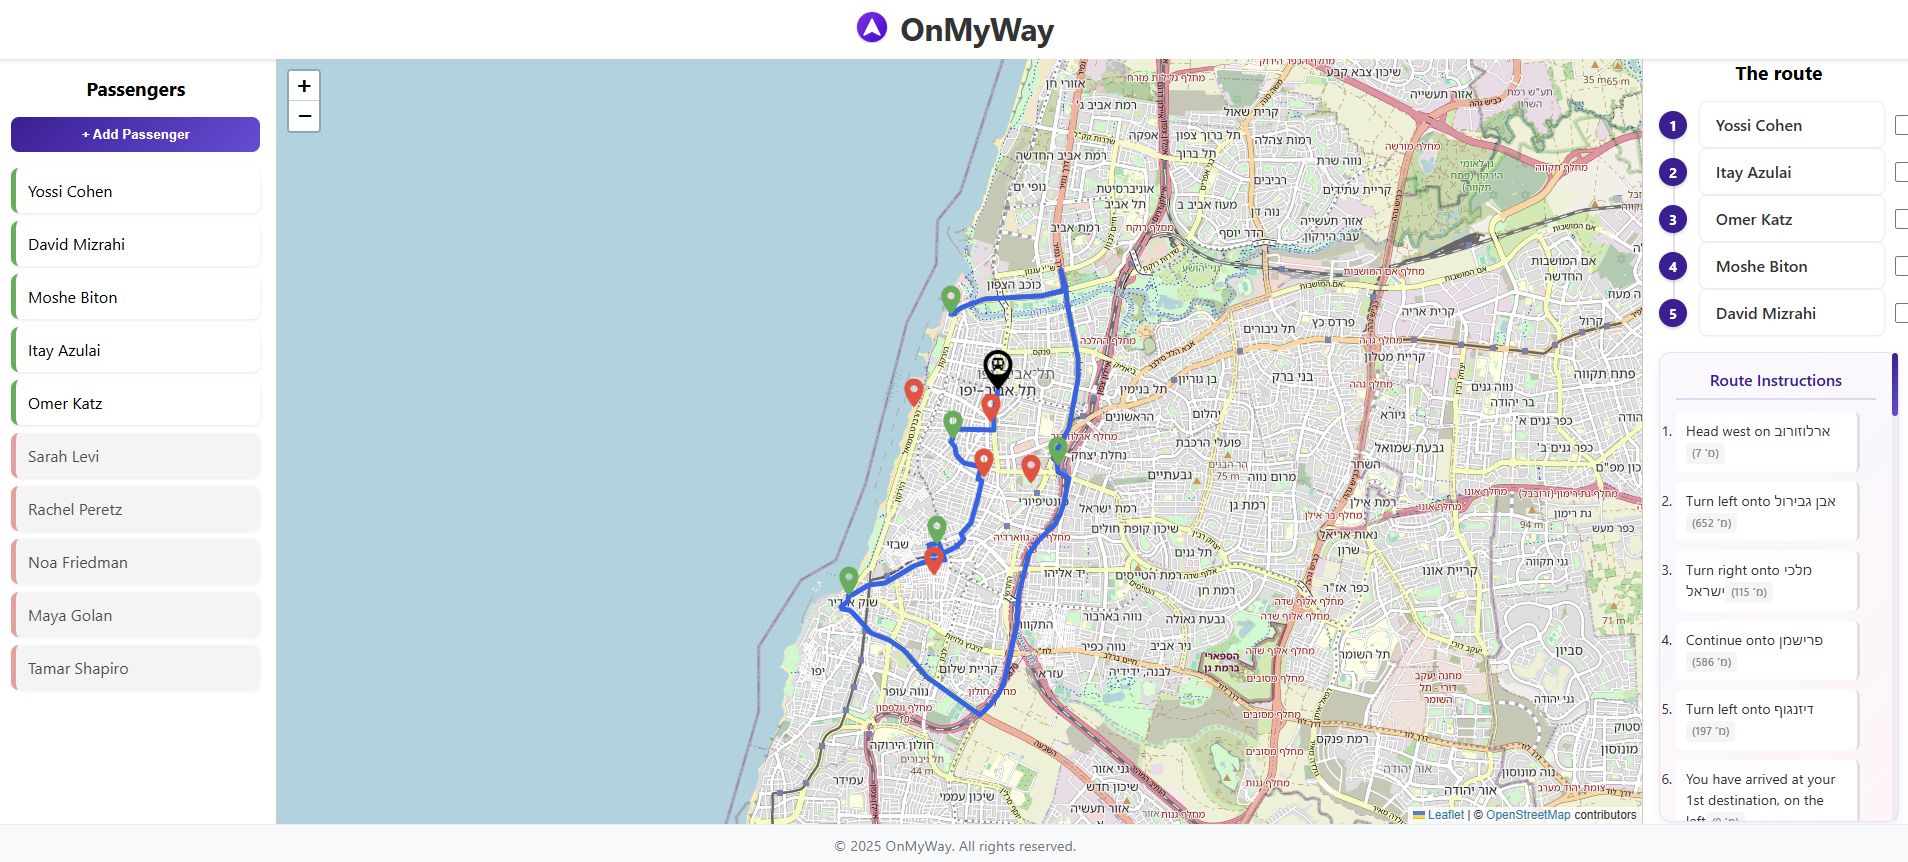
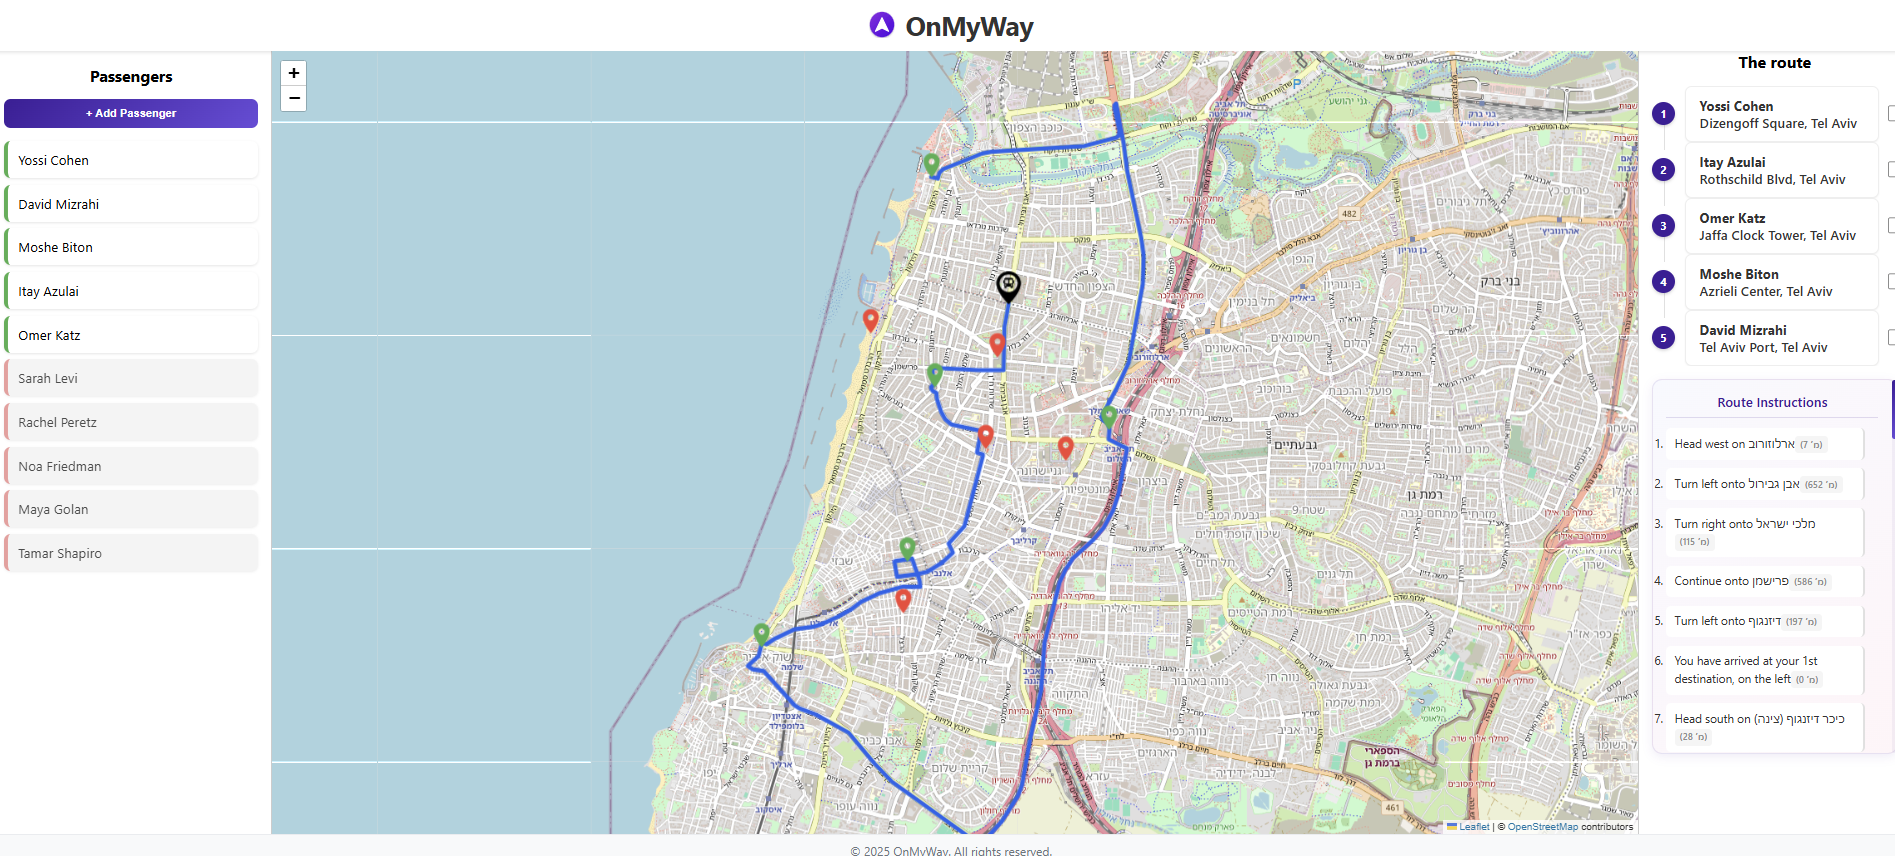
update README

diff --git a/Frontend/src/components/Map.css b/Frontend/src/components/Map.css
@@ -186,6 +186,9 @@
     padding: 0;
     margin: 0;
     position: relative;
+    max-height: 350px;
+    overflow-y: auto;
+    padding-right: 0.5rem;
 }
 
 /* Container for the step */
@@ -259,21 +262,10 @@
     border: 1px solid #eee;
     border-radius: 8px;
     flex-grow: 1;
+    font-weight: 500;
     color: #333;
     box-shadow: 0 1px 2px rgba(0, 0, 0, 0.05);
     transition: transform 0.2s, box-shadow 0.2s;
-    display: flex;
-    flex-direction: column;
-}
-
-.step-point-name {
-    font-weight: 600;
-    margin-bottom: 2px;
-}
-
-.step-point-address {
-    font-size: 0.8rem;
-    color: #666;
 }
 
 .Route li.route-step:hover .step-name {
@@ -300,12 +292,31 @@
     display: none !important;
 }
 
+/* Custom Scrollbar for Route Steps */
+.Route ol.route-steps::-webkit-scrollbar {
+    width: 6px;
+}
+
+.Route ol.route-steps::-webkit-scrollbar-track {
+    background: rgba(62, 29, 153, 0.05);
+    border-radius: 10px;
+}
+
+.Route ol.route-steps::-webkit-scrollbar-thumb {
+    background: linear-gradient(135deg, #3e1d99 0%, #6a4cdb 100%);
+    border-radius: 10px;
+}
+
+.Route ol.route-steps::-webkit-scrollbar-thumb:hover {
+    background: linear-gradient(135deg, #2e0d89 0%, #5a3ccb 100%);
+}
+
 .RouteInstructions {
     margin: 16px 1rem 1rem 1rem;
     padding: 16px;
     background: linear-gradient(135deg, #f8f9ff 0%, #fff5f8 100%);
     border-radius: 12px;
-    max-height: 470px;
+    max-height: 450px;
     overflow-y: auto;
     font-size: 14px;
     box-shadow: 0 4px 12px rgba(62, 29, 153, 0.08);

diff --git a/README.md b/README.md
@@ -23,6 +23,17 @@ The main goal of this system is to provide a **ride escort** with a reliable too
 Parents only confirm participation, while the escort sees an aggregated and ordered route.
 
 ---
+## 🧩 System Architecture (High Level)
+
+The system follows a classic client-server architecture:
+- React frontend communicates with a RESTful Express backend
+- Backend handles business logic, database access, and geocoding
+- MySQL stores persistent passenger, address, and confirmation data
+This separation allows clear responsibility boundaries and easy future scaling.
+
+
+
+---
 
 ## 👥 Authors
 
@@ -54,6 +65,9 @@ Developed collaboratively by:
 
 ## 🖼 Application Screens
 
+### Attendant Dashboard - main view
+![Ride-ant-Dashboard](./images/attendant-dashboard.png)
+
 ### Login Screen (Role Selection)
 
 ![Login Screen](./images/login.png)
@@ -61,10 +75,26 @@ Developed collaboratively by:
 ### Parent Confirmation Screen
 ![Parent-Confirmation Screen](./images/parent-confirmation.png)
 
+### Add Passenger Screen
+![attendant-Verification Screen](./images/attendant-verification.png)
 
-### Ride Escort Dashboard - main view
-![Ride-ant-Dashboard](./images/attendant-dashboard.png)
 
+
+
+
+
+
+---
+## 👤 User Roles
+
+- **Attendant**
+  - Manages passengers
+  - Views full route and pickup order
+  - Sees real-time confirmation status
+
+- **Parent**
+  - Confirms or declines child participation
+  - Has access only to their child’s status
 
 
 
@@ -83,6 +113,16 @@ The application uses **Leaflet** with **OpenStreetMap** tiles to visualize:
 - Ordered pickup route list synchronized with map markers
 
 Passenger addresses are automatically geocoded using the **OpenStreetMap Nominatim API** when a new passenger is added.
+Routing is calculated dynamically using OSRM and rendered directly on the map.
+
+
+---
+## ✨ UX Highlights
+
+- Live route visualization synced with passenger list
+- Clear visual feedback for ride status (colors & icons)
+- Minimal interactions for parents (single confirmation action)
+- Designed for tablet / mobile use by attendants during rides
 
 ---
 
@@ -106,6 +146,14 @@ Passenger addresses are automatically geocoded using the **OpenStreetMap Nominat
 - id (PK)
 - person_id (FK)
 - status_ride (BOOLEAN)
+
+#### attendant
+- id (PK)
+- f_name
+- l_name
+- address_id (FK)
+
+The schema is normalized to avoid duplication of address data.
 
 ---
 
@@ -160,9 +208,24 @@ cd Frontend
 npm install
 npm run dev
 ```
+## ⚠ Known Limitations (MVP)
+
+- Route optimization is order-based, not time-optimized
+- No authentication layer (planned for future version)
+- OSRM public demo server is used for routing
+
+---
+## 🚀 Future Improvements
+
+- Authentication & role-based access control
+- Real-time updates using WebSockets
+- Advanced route optimization (time, traffic, constraints)
+- Mobile-first UI improvements
 
 ---
 
 ## 📌 Project Status
 
 This project is a **full-stack MVP**, built to model a real-world ride management system with parent confirmation and map-based route visualization.
+The project is actively evolving and serves as a foundation for future production-ready features.
+
